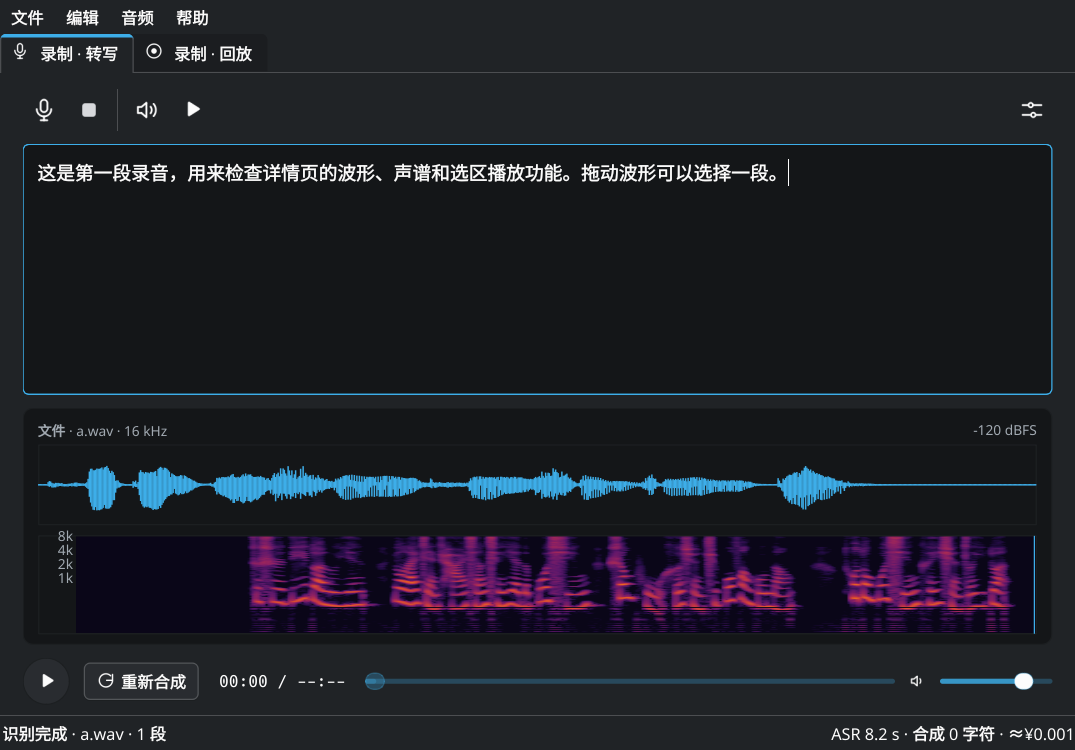
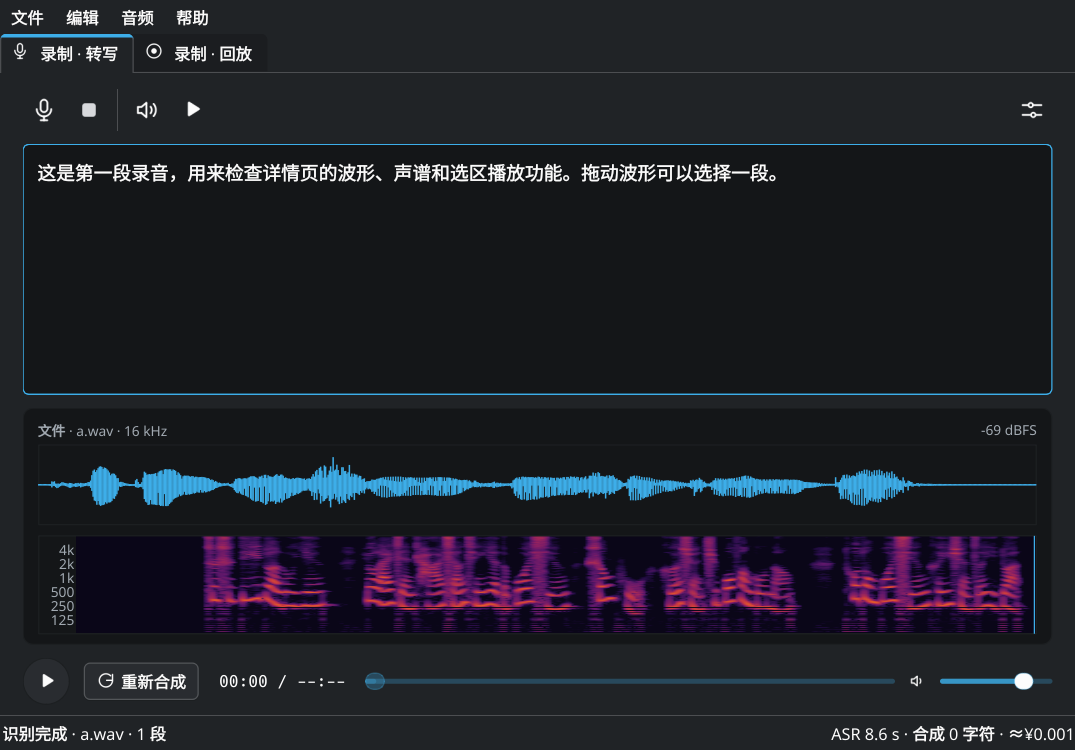
Spread spectrogram frequency labels across octave bands
- Add 125/250/500 Hz labels so 1k-8k no longer crowd at the top
- Detail spectrogram shows the full 125 Hz-8 kHz set; smaller monitors
  omit 8k when there is not enough vertical space
- Clamp labels to the plot area to avoid clipping

Changed region(s): [[0.1842, 0.7053, 0.9516, 0.8587], [0.0614, 0.6133, 0.8595, 0.6747], [0.0307, 0.7667, 0.0921, 0.828]]

diff --git a/src/audiomonitor.cpp b/src/audiomonitor.cpp
@@ -375,7 +375,10 @@ void AudioMonitor::paintEvent(QPaintEvent *event)
     painter.restore();
 
     const float maxFreq = qMin(8000.0f, m_rate / 2.0f);
-    const QVector<int> marks = {0, 1000, 2000, 4000, 8000};
+    const QVector<int> barMarks = {0, 1000, 2000, 4000, 8000};
+    const QVector<int> spectralMarks = spec.height() < 150.0
+        ? QVector<int>{125, 250, 500, 1000, 2000, 4000}
+        : QVector<int>{125, 250, 500, 1000, 2000, 4000, 8000};
     const float logSpan = std::log(maxFreq / 60.0f);
 
     if (m_mode == Mode::Bars) {
@@ -405,7 +408,7 @@ void AudioMonitor::paintEvent(QPaintEvent *event)
 
         painter.setFont(small);
         painter.setPen(placeholder);
-        for (const int mark : marks) {
+        for (const int mark : barMarks) {
             if (mark > maxFreq)
                 continue;
             const float position = mark == 0
@@ -419,7 +422,6 @@ void AudioMonitor::paintEvent(QPaintEvent *event)
         }
     } else {
         painter.save();
-        painter.save();
         const QRectF waterfall = spec.adjusted(30, 1, -1, -1);
         painter.setClipRect(waterfall);
         painter.setRenderHint(QPainter::SmoothPixmapTransform, true);
@@ -428,13 +430,15 @@ void AudioMonitor::paintEvent(QPaintEvent *event)
 
         painter.setFont(small);
         painter.setPen(placeholder);
-        for (const int mark : marks) {
-            if (mark < 1000 || mark > maxFreq)
+        for (const int mark : spectralMarks) {
+            if (mark > maxFreq)
                 continue;
             const qreal position = std::log(maxFreq / float(mark)) / logSpan;
-            const qreal y = spec.top() + position * spec.height();
-            const QString label = QStringLiteral("%1k").arg(mark / 1000);
-            painter.drawText(QRectF(spec.left() + 2, y - 7, 26, 14),
+            const qreal y = qBound(spec.top() + 7, spec.top() + position * spec.height(),
+                                   spec.bottom() - 7);
+            const QString label = mark >= 1000 ? QStringLiteral("%1k").arg(mark / 1000)
+                                               : QString::number(mark);
+            painter.drawText(QRectF(spec.left() + 1, y - 7, 28, 14),
                              Qt::AlignRight | Qt::AlignVCenter, label);
         }
         if (m_specColumns > 0) {

diff --git a/src/recordingdetail.cpp b/src/recordingdetail.cpp
@@ -433,11 +433,18 @@ protected:
         const float logSpan = std::log(maxFreq / 60.0f);
         painter.setFont(font());
         painter.setPen(pal.color(QPalette::PlaceholderText));
-        for (const int mark : {1000, 2000, 4000, 8000}) {
+        const QVector<int> marks = imageRect.height() < 150.0
+            ? QVector<int>{125, 250, 500, 1000, 2000, 4000}
+            : QVector<int>{125, 250, 500, 1000, 2000, 4000, 8000};
+        for (const int mark : marks) {
             const qreal position = std::log(maxFreq / float(mark)) / logSpan;
-            const qreal y = imageRect.top() + position * imageRect.height();
-            painter.drawText(QRectF(2, y - 8, 28, 16), Qt::AlignRight | Qt::AlignVCenter,
-                             QStringLiteral("%1k").arg(mark / 1000));
+            const qreal y = qBound(imageRect.top() + 8,
+                                   imageRect.top() + position * imageRect.height(),
+                                   imageRect.bottom() - 8);
+            const QString label = mark >= 1000 ? QStringLiteral("%1k").arg(mark / 1000)
+                                               : QString::number(mark);
+            painter.drawText(QRectF(2, y - 8, 30, 16), Qt::AlignRight | Qt::AlignVCenter,
+                             label);
         }
     }
 
